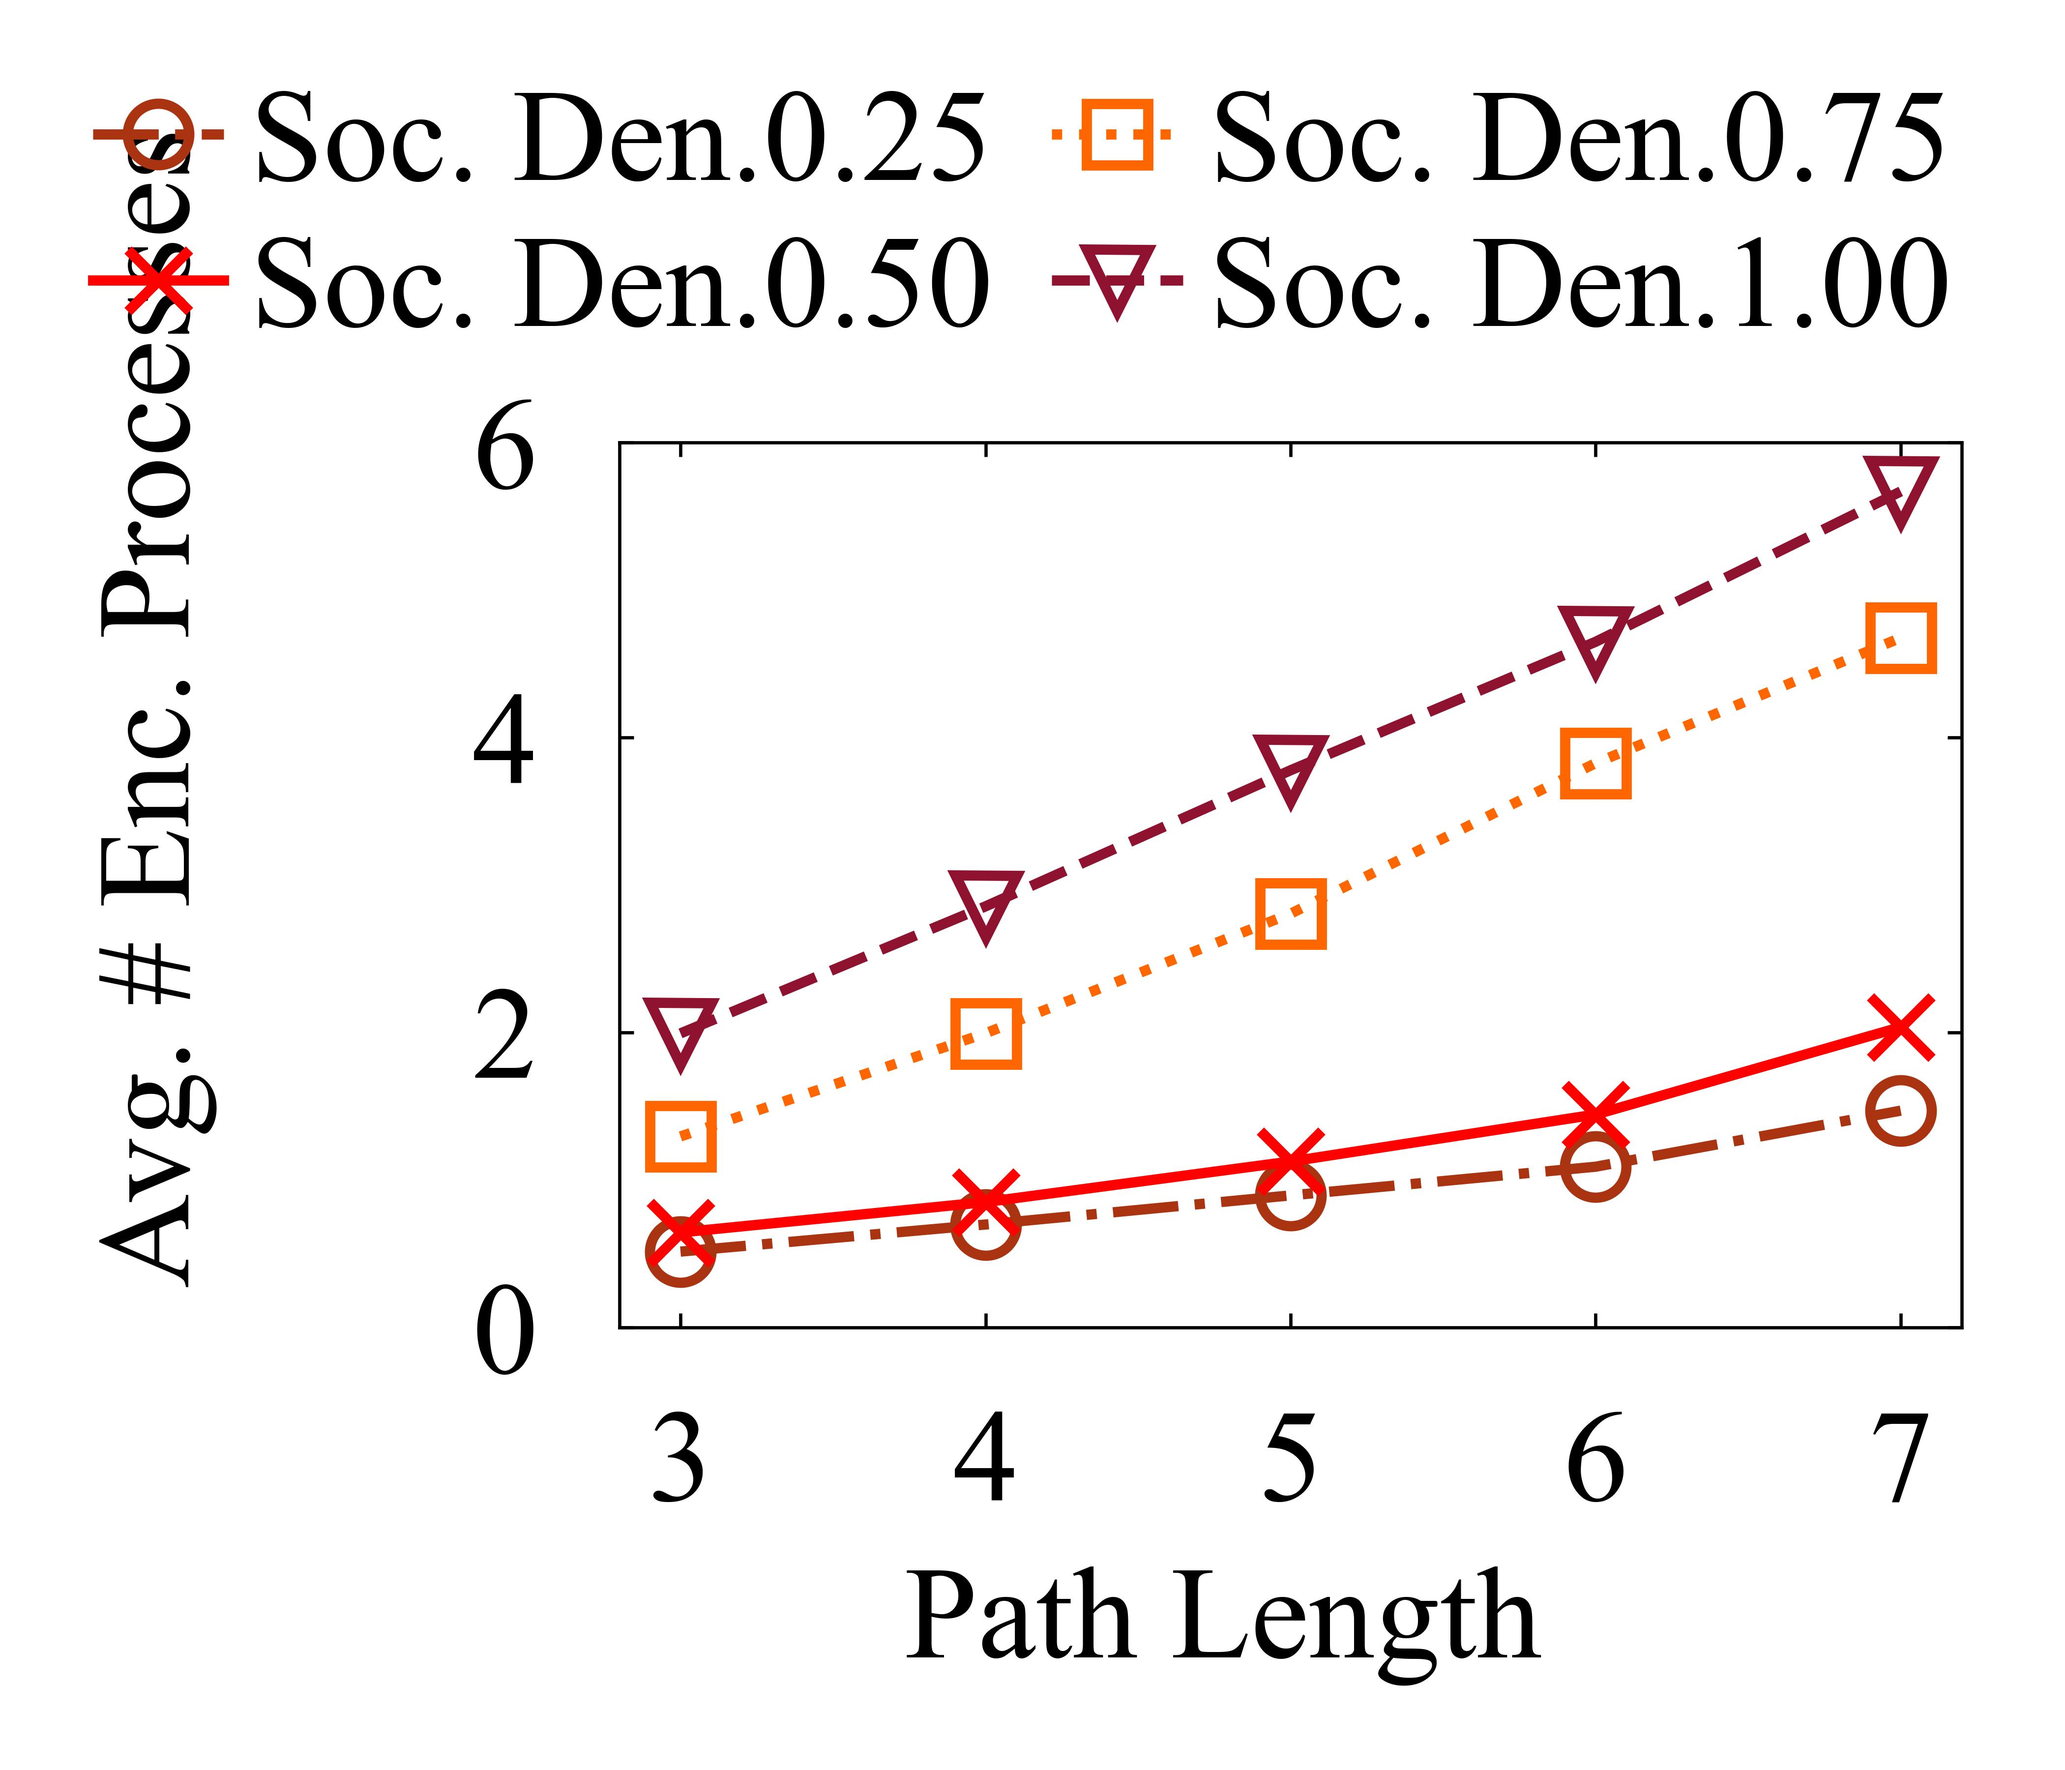
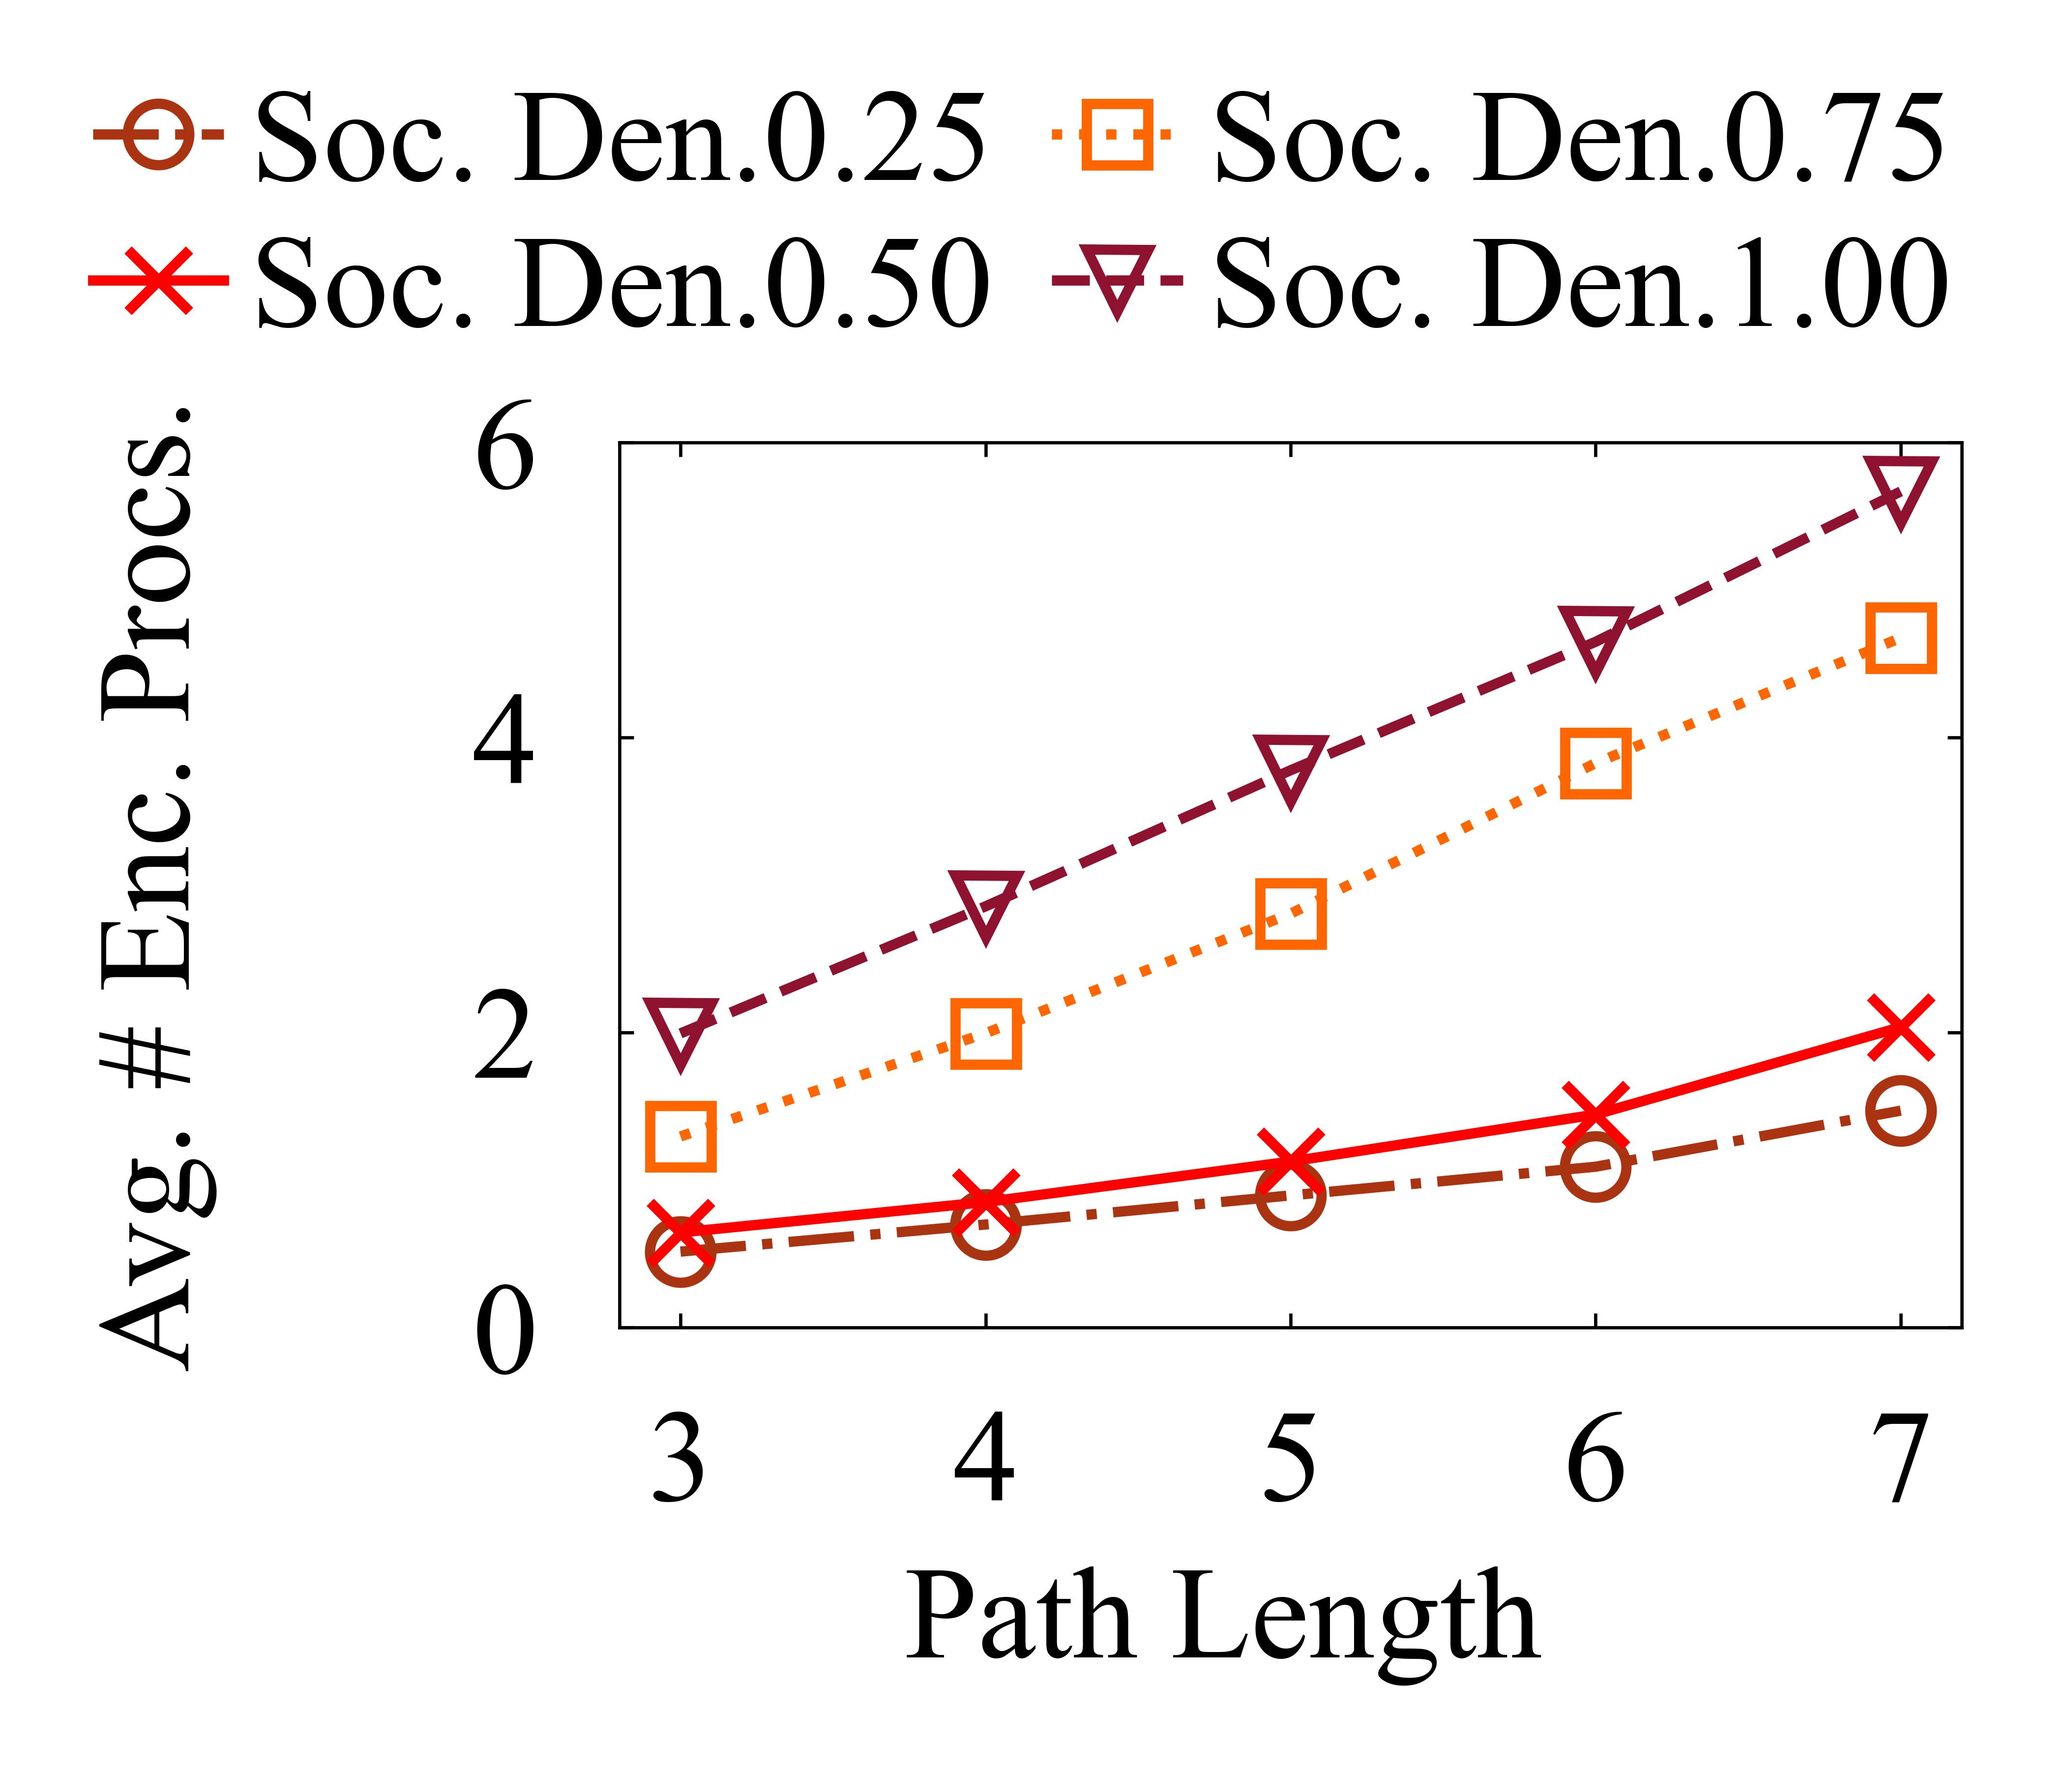
Enc. Procs.

Changed region(s): [[0.0312, 0.0622, 0.1248, 0.7778]]

diff --git a/use/path_length_encode_cnt/ChartGenerator.py b/use/path_length_encode_cnt/ChartGenerator.py
@@ -186,7 +186,7 @@ class ChartGenerator:
         plt.xticks(x_data, x)
         plt.ylabel(Ylabel, fontsize = Ylabel_fontsize, labelpad = 35)
         plt.xlabel(Xlabel, fontsize = Xlabel_fontsize, labelpad = 10)
-        ax1.yaxis.set_label_coords(-0.3, 0.7)
+        ax1.yaxis.set_label_coords(-0.3, 0.5)
         ax1.xaxis.set_label_coords(0.45, -0.27)
         # plt.show()
         # plt.tight_layout()
@@ -218,6 +218,6 @@ if __name__ == "__main__":
 
 
     Xlabel = "Path Length"
-    Ylabel = "Avg. # Enc. Processes"
+    Ylabel = "Avg. # Enc. Procs."
     dataFileName = "path_length_encode_cnt.ans"
     ChartGenerator(dataFileName, Ylabel, Xlabel)
